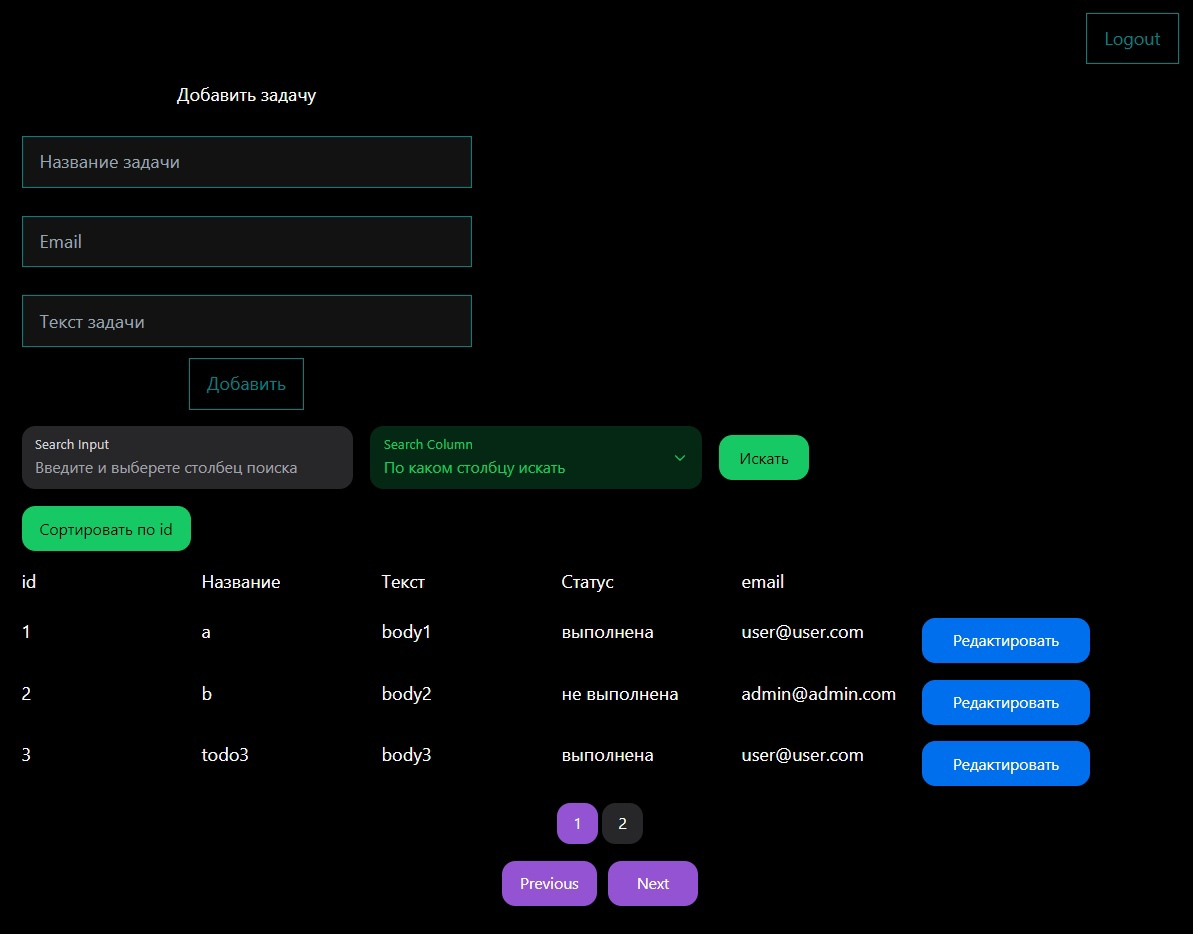
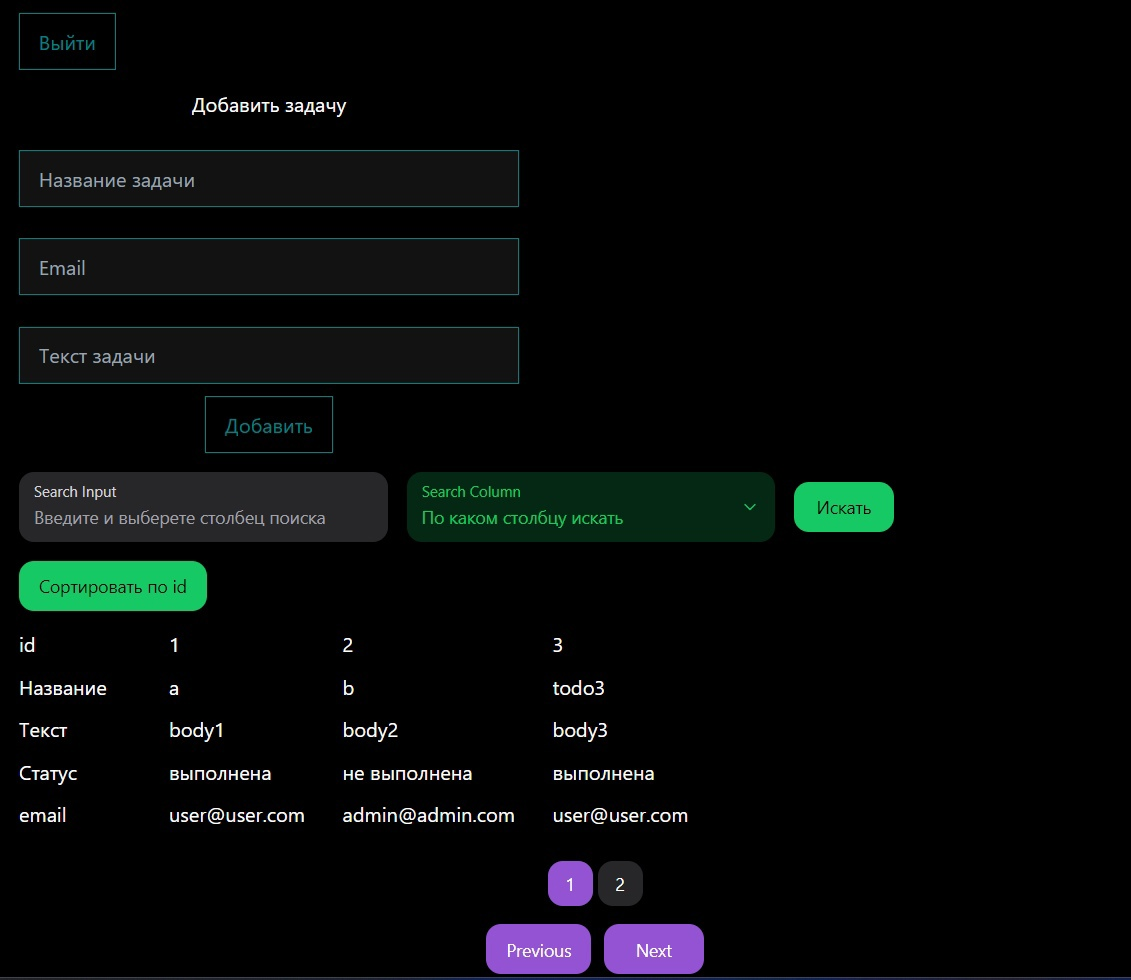
fixed logout link position

diff --git a/src/app/page.tsx b/src/app/page.tsx
@@ -123,8 +123,8 @@ export default function Home() {
 
   return (
     <main className={styles.main}>
-      <Link href="/logout" className={styles.link}>
-        <button className={styles.button}>Logout</button>
+      <Link href="/logout">
+        <button className={styles.button}>Выйти</button>
       </Link>
       <form onSubmit={handleSubmit} className={styles.form}>
         <h2>Добавить задачу</h2>

diff --git a/src/app/page.module.css b/src/app/page.module.css
@@ -6,10 +6,6 @@
   padding: 20px;
 }
 
-.link {
-  align-self: flex-end;
-}
-
 .table {
   display: flex;
   flex-direction: column;
